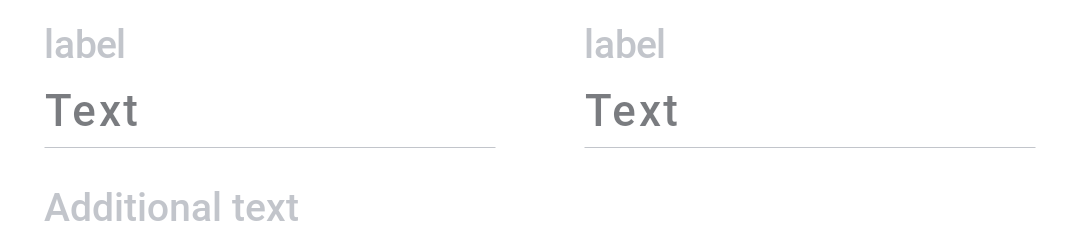
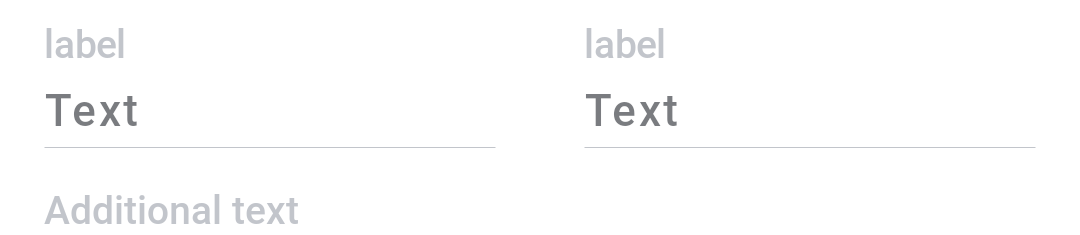
[FEATURE] - fix additional text view in the DoubleTextField.

diff --git a/admiral-uikit/src/main/java/com/admiral/uikit/components/textfield/DoubleTextField.kt b/admiral-uikit/src/main/java/com/admiral/uikit/components/textfield/DoubleTextField.kt
@@ -5,7 +5,6 @@ import android.content.res.TypedArray
 import android.graphics.Color
 import android.util.AttributeSet
 import android.view.LayoutInflater
-import android.widget.TextView
 import androidx.constraintlayout.widget.ConstraintLayout
 import androidx.constraintlayout.widget.ConstraintSet
 import androidx.core.content.res.use
@@ -14,10 +13,11 @@ import com.admiral.themes.Theme
 import com.admiral.themes.ThemeManager
 import com.admiral.themes.ThemeObserver
 import com.admiral.uikit.R
-import com.admiral.uikit.ext.getColorOrNull
-import com.admiral.uikit.ext.parseAttrs
 import com.admiral.uikit.common.ext.withAlpha
 import com.admiral.uikit.common.foundation.ColorState
+import com.admiral.uikit.components.text.TextView
+import com.admiral.uikit.ext.getColorOrNull
+import com.admiral.uikit.ext.parseAttrs
 
 class DoubleTextField @JvmOverloads constructor(
     context: Context,
@@ -41,6 +41,15 @@ class DoubleTextField @JvmOverloads constructor(
         }
 
     /**
+     * Max lines for the [additionalTextView].
+     */
+    var additionalTextViewMaxLines: Int = Int.MAX_VALUE
+        set(value) {
+            field = value
+            additionalTextView.maxLines = value
+        }
+
+    /**
      * Error text which is placed under divider when the view is in a Error state.
      */
     var errorText: String? = null
@@ -51,6 +60,9 @@ class DoubleTextField @JvmOverloads constructor(
             }
         }
 
+    /**
+     * Handles visibility of the [additionalTextView].
+     */
     var isAdditionalTextVisible: Boolean = true
         set(value) {
             field = value
@@ -77,10 +89,16 @@ class DoubleTextField @JvmOverloads constructor(
             invalidateRatio(value)
         }
 
-    val leftTextField: TextField by lazy { findViewById<TextField>(R.id.leftTextField) }
-    val rightTextField: TextField by lazy { findViewById<TextField>(R.id.rightTextField) }
+    var isAdditionalTextSingle: Boolean = true
+        set(value) {
+            field = value
+            invalidateAdditionalTextViews()
+        }
 
-    private val additionalTextView: TextView by lazy { findViewById<TextView>(R.id.additionalTextView) }
+    val leftTextField: TextField by lazy { findViewById(R.id.leftTextField) }
+    val rightTextField: TextField by lazy { findViewById(R.id.rightTextField) }
+
+    private val additionalTextView: TextView by lazy { findViewById(R.id.doubleSliderAdditionalTextView) }
 
     init {
         LayoutInflater.from(context).inflate(R.layout.admiral_view_double_text_field, this)
@@ -93,6 +111,9 @@ class DoubleTextField @JvmOverloads constructor(
             invalidateRatio(it.getInt(R.styleable.DoubleTextField_admiralRatio, RATIO_EQUAL))
 
             isEnabled = it.getBoolean(R.styleable.DoubleTextField_enabled, true)
+            additionalTextViewMaxLines =
+                it.getInt(R.styleable.DoubleTextField_admiralTextAdditionalMaxLines, Int.MAX_VALUE)
+            isAdditionalTextSingle = it.getBoolean(R.styleable.DoubleTextField_admiralIsAdditionalTextViewSingle, true)
         }
     }
 
@@ -116,10 +137,17 @@ class DoubleTextField @JvmOverloads constructor(
         super.setEnabled(enabled)
         leftTextField.isEnabled = enabled
         rightTextField.isEnabled = enabled
+        invalidateColors()
     }
 
     override fun onThemeChanged(theme: Theme) {
         invalidateColors()
+    }
+
+    private fun invalidateAdditionalTextViews() {
+        leftTextField.isAdditionalTextVisible = !isAdditionalTextSingle
+        rightTextField.isAdditionalTextVisible = !isAdditionalTextSingle
+        additionalTextView.isGone = !isAdditionalTextSingle
     }
 
     private fun invalidateColors() {
@@ -127,9 +155,9 @@ class DoubleTextField @JvmOverloads constructor(
             isError -> leftTextField.errorColor ?: ThemeManager.theme.palette.textError
             !isEnabled -> leftTextField.additionalTextColors?.normalDisabled
                 ?: ThemeManager.theme.palette.textSecondary.withAlpha()
-            else -> leftTextField.additionalTextColors?.normalEnabled ?: ThemeManager.theme.palette.textPrimary
+            else -> leftTextField.additionalTextColors?.normalEnabled ?: ThemeManager.theme.palette.textSecondary
         }
-        additionalTextView.setTextColor(additionalTextColor)
+        additionalTextView.textColor = ColorState(additionalTextColor)
     }
 
     private fun invalidateError() {
@@ -147,6 +175,7 @@ class DoubleTextField @JvmOverloads constructor(
         }
 
         additionalTextView.text = text
+        invalidateColors()
     }
 
     private fun invalidateRatio(ratio: Int) {

diff --git a/demo/src/androidTest/java/com/admiral/demo/views/TextFieldDoubleTest.kt b/demo/src/androidTest/java/com/admiral/demo/views/TextFieldDoubleTest.kt
@@ -73,16 +73,18 @@ class TextFieldDoubleTest : ScreenshotTest {
     }
 
     private fun checkTextFieldProgrammatically(
-        isEnabled: Boolean,
+        isEnabled: Boolean = true,
         isReadonly: Boolean? = null,
         isError: Boolean? = null,
-        @StringRes textResId: Int? = null
+        isAdditionalTextSingle: Boolean = true,
+        @StringRes textResId: Int? = null,
+        @StringRes additionalText: Int = R.string.text_fields_example_slider_additional
     ) {
         val textField = DoubleTextField(wrappedContext).apply {
             disableInputLayoutAnimation()
             this.leftTextField.optionalText = context.getString(R.string.text_fields_optional_label)
             this.rightTextField.optionalText = context.getString(R.string.text_fields_optional_label)
-            this.additionalText = context.getString(R.string.text_fields_example_slider_additional)
+            this.additionalText = context.getString(additionalText)
             this.isEnabled = isEnabled
             textResId?.let {
                 this.leftTextField.inputText = context.getString(it)
@@ -93,6 +95,9 @@ class TextFieldDoubleTest : ScreenshotTest {
                 rightTextField.isEditEnabled = isReadonly.not()
             }
             isError?.let { this.isError = isError }
+            this.isAdditionalTextSingle = isAdditionalTextSingle
+            this.leftTextField.errorText = "error text first"
+            this.rightTextField.errorText = "error text second"
         }
 
         textField.check()
@@ -180,11 +185,29 @@ class TextFieldDoubleTest : ScreenshotTest {
     }
 
     @Test
-    fun checkProgrammaticallyTextFieldDoubleErrorWithTextDisabledState() {
+    fun checkProgrammaticallyTextFieldDoubleSingleErrorWithTextDisabledState() {
         checkTextFieldProgrammatically(
             isEnabled = false,
             isError = true,
             textResId = R.string.text_fields_text,
+        )
+    }
+
+    @Test
+    fun checkProgrammaticallyTextFieldDoubleSingeErrorWithLargeTextEnabledState() {
+        checkTextFieldProgrammatically(
+            isError = true,
+            textResId = R.string.text_fields_text,
+            additionalText = R.string.cell_lorem_ipsum,
+        )
+    }
+
+    @Test
+    fun checkProgrammaticallyTextFieldDoubleBothErrorWithTextEnabledState() {
+        checkTextFieldProgrammatically(
+            isError = true,
+            textResId = R.string.text_fields_text,
+            isAdditionalTextSingle = false,
         )
     }
 

diff --git a/admiral-uikit/src/main/java/com/admiral/uikit/components/textfield/TextField.kt b/admiral-uikit/src/main/java/com/admiral/uikit/components/textfield/TextField.kt
@@ -167,6 +167,10 @@ class TextField @JvmOverloads constructor(
      * Error text which is placed under divider when the view is in a Error state.
      */
     var errorText: String? = null
+        set(value) {
+            field = value
+            invalidateError()
+        }
 
     /**
      * Gravity of input text.
